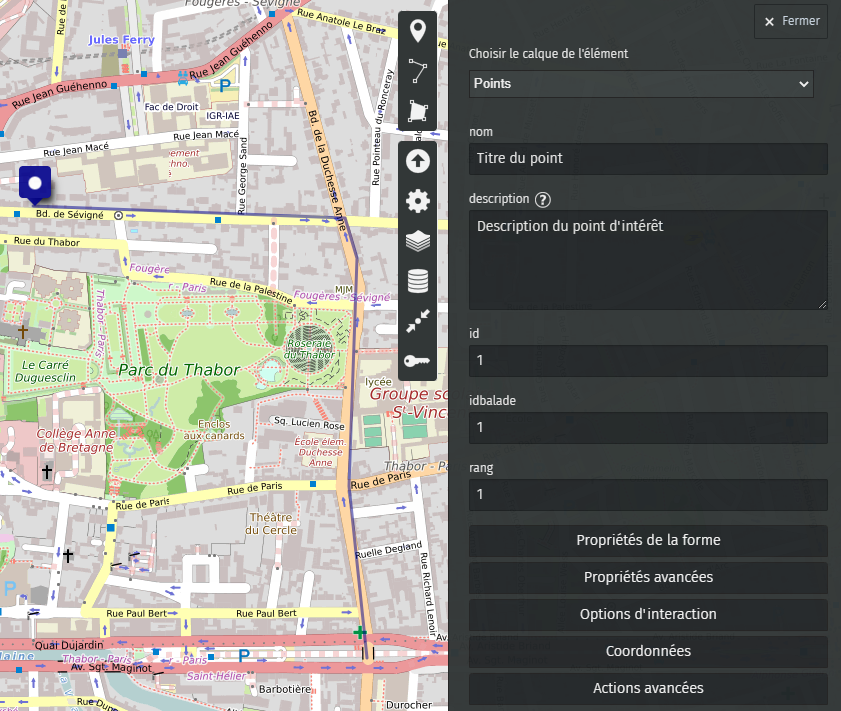
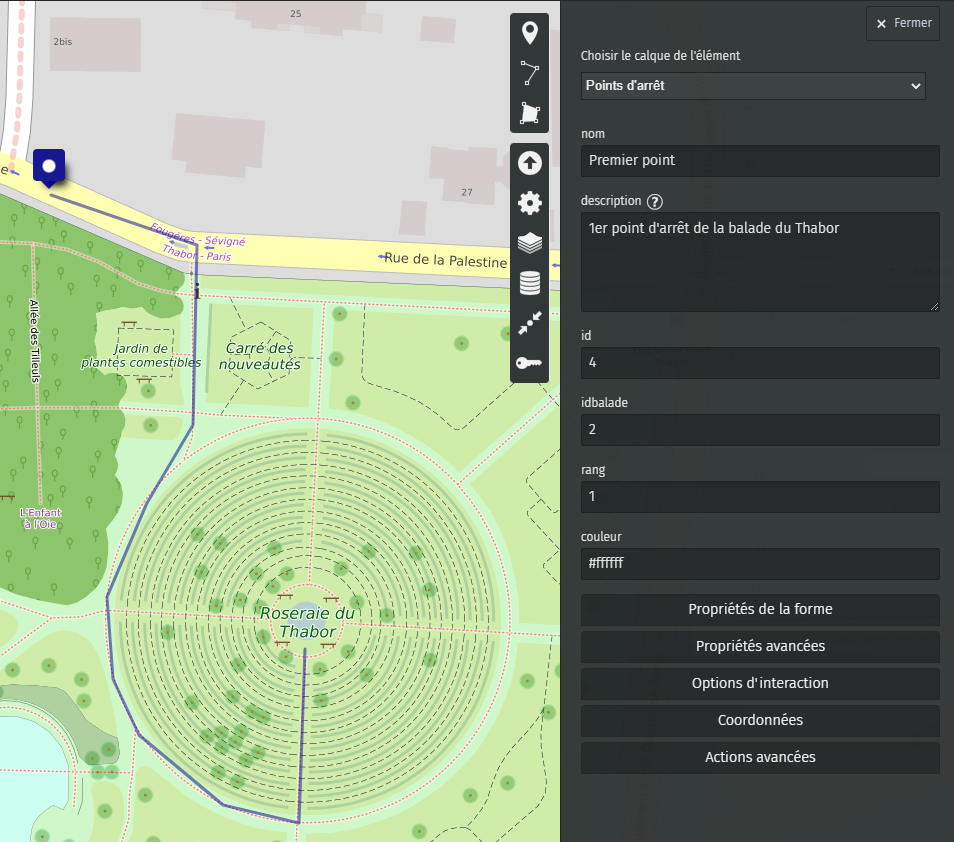
#11861 correctif formulaire

diff --git a/balades/formulaire/manuel_utilisateur.html b/balades/formulaire/manuel_utilisateur.html
@@ -18,7 +18,7 @@
                         <div class="flex-shrink-0"><img class="h-12 w-12" src="librairies/RennesLogo.png" alt="Workflow"></div>
                         <div class="block">
                             <div class="ml-10 flex items-baseline space-x-4">
-                                <a href="index.html" class="text-gray-300 hover:bg-gray-700 hover:text-white px-3 py-2 rounded-md text-sm font-medium" aria-current="page">Création d'une balade</a>
+                                <a href="index.html" class="text-gray-300 hover:bg-gray-700 hover:text-white px-3 py-2 rounded-md text-sm font-medium" aria-current="page">Paramétrage de la carte</a>
                                 <a href="manuel_utilisateur.html" class="bg-gray-900 text-white px-3 py-2 rounded-md text-sm font-medium">Manuel utilisateur</a>
                             </div>
                         </div>
@@ -31,10 +31,11 @@
             <nav class="w-full max-w-max">
                 <div class="container">
                     <ol class="list-inside text-md ml-8">
+                        <li class="mb-2"><a class="text-blue-700 hover:text-blue-800" href="#pre-requis">Pré-requis</a></li>
                         <li class="mb-2"><a class="text-blue-700 hover:text-blue-800" href="#etape-1">Étape 1 : Création des données des balades avec uMap</a></li>
                         <ol class="list-inside text-md ml-12 text-sm">
                             <li class="mb-2"><a class="text-blue-700 hover:text-blue-800" href="#etape-1-1">1.1 : Ouverture du site et import d'un fichier de configuration</a></li>
-                            <li class="mb-2"><a class="text-blue-700 hover:text-blue-800" href="#etape-1-2">1.2 : Création d'une balade (entité linéaire)</a></li>
+                            <li class="mb-2"><a class="text-blue-700 hover:text-blue-800" href="#etape-1-2">1.2 : Création du parcours d'une balade (entité linéaire)</a></li>
                             <li class="mb-2"><a class="text-blue-700 hover:text-blue-800" href="#etape-1-3">1.3 : Création d'un point d'intérêt (entité ponctuelle)</a></li>
                             <li class="mb-2"><a class="text-blue-700 hover:text-blue-800" href="#etape-1-4">1.4 : Exporter les données de uMap</a></li>
                         </ol>
@@ -51,6 +52,10 @@
                     </ol>
                 </div>
             </nav>
+            <h2 class="text-xl font-bold text-gray-800 mb-4 mt-10 ml-6" id="pre-requis" style="scroll-margin-top: 4.2rem;">Pré-requis :</h2>
+            <div class="container mx-auto">
+                <p class="mb-4">Vous avez besoin de télécharger un modèle de carte pour le site uMap : <a class="text-blue-700 hover:text-blue-800" target="_blank" href="carte_balade_exemple.umap" download>cliquer ici pour téléchager le modèle de carte uMap</a></p>
+            </div>
             <h2 class="text-xl font-bold text-gray-800 mb-4 mt-10 ml-6" id="etape-1" style="scroll-margin-top: 4.2rem;">Étape 1 : Création des données des balades avec uMap</h2>
             <div class="container mx-auto">
                 <ol class="list-inside">
@@ -59,19 +64,20 @@
                         <p class="mb-2">Commencez par aller sur le site <b>uMap</b> pour commencer la création des balades : <a class="text-blue-700 hover:text-blue-800" target="_blank" href="https://umap.openstreetmap.fr/fr/map/new/#13/48.1138/-1.6722">https://umap.openstreetmap.fr/</a></p>
                         <p>Ensuite, cliquer sur le <b>bouton</b> pour importer un exemple de données sur uMap comme sur l'image ci-dessous : </p>
                         <img class="w-1/12 mx-auto my-4 border border-black rounded-md" src="librairies/images/boutonImporterDonneesuMap.png">
-                        <p>Un panneau s'ouvre alors pour importer un fichier de configuration comme sur la capture ci-dessous. Sélectionnez le fichier <b>carte_balade_exemple.umap</b> téléchargeable ici : <a class="text-blue-700 hover:text-blue-800" target="_blank" href="carte_balade_exemple.umap">carte_balade_exemple.umap</a></p>
+                        <p>Un panneau s'ouvre alors pour importer un fichier de configuration comme sur la capture ci-dessous. Sélectionnez le fichier <b>carte_balade_exemple.umap</b> que vous avez téléchargé.</p>
                         <img class="w-1/4 mx-auto my-4 border border-black rounded-md" src="librairies/images/menuImporterDesDonnees.png">
-                        <p>Vous pouvez cliquer sur le bouton <b>Importer</b> et le fichier de configuration sera chargé dans uMap (cf. image ci-dessous). Vous pouvez alors commencer à créer vos balades.</p>
+                        <p>Vous pouvez cliquer sur le bouton <b>Importer</b> et le fichier de configuration sera chargé dans uMap (cf. image ci-dessous). Sur la base de ce modèle de données, 
+                            il est possible de créer les données représentant des balades avec des points d'intérêts. De plus, le style des données sur la carte uMap ne correspondra pas à la carte thématique qui sera déployée.</p>
                         <img class="w-1/4 mx-auto my-4 border border-black rounded-md" src="librairies/images/exempleDonnesImportes.png">          
                     </li>
                     <li class="mb-4" id="etape-1-2" style="scroll-margin-top: 4.2rem;">
-                        <h2 class="text-lg font-bold text-gray-800 mb-4">1.2 : Création d'une balade (entité linéaire)</h2>
+                        <h2 class="text-lg font-bold text-gray-800 mb-4">1.2 : Création du parcours d'une balade (entité linéaire)</h2>
                         <p>Pour créer une entité linéaire, vous devez cliquer sur le bouton <b>Dessiner une ligne</b> comme sur la capture ci-dessous :</p>
                         <img class="w-1/12 mx-auto my-4 border border-black rounded-md" src="librairies/images/boutonEntitieLineaire.png">
-                        <p>Ensuite, vous pouvez créer les points de balade sur la carte en <b>cliquant</b> pour chaque point. Pour <b>terminer</b> la création de la balade, 
-                        il faut cliquer sur le dernier point de la balade et un menu s'ouvre pour renseigner les <b>informations de la balade</b> comme sur la capture ci-dessous :</p>
+                        <p>Ensuite, vous pouvez créer les points du segment sur la carte en <b>cliquant</b> pour chaque point. Pour <b>terminer</b> la création de la balade, 
+                        il faut cliquer sur le dernier point de segment de la balade et un menu s'ouvre pour renseigner les <b>informations de la balade</b> comme sur la capture ci-dessous :</p>
                         <img class="w-1/2 mx-auto my-4 border border-black rounded-md" src="librairies/images/creerEntiteLineaire.png">
-                        <p class="mb-2 text-red-600">Si vous n'avez pas le formulaire pour renseigner les informations de la balade, vous pouvez changer le calque de l'élément en <b>Balades</b>.</p>
+                        <p class="mb-2 text-red-600">Si vous n'avez pas le formulaire pour renseigner les informations de la balade, vous pouvez changer le calque de l'élément en <b>Parcours de balade</b>.</p>
                         <p>Les informations à renseigner pour une balade sont les suivantes :</p>
                         <ul class="list-disc ml-12 my-2">
                             <li><b>Nom</b> : le titre de la balade</li>
@@ -88,7 +94,7 @@
                         <p>Ensuite, vous pouvez créer un point d'intérêt en <b>cliquant</b> sur la carte. Après avoir cliqué sur la carte,
                         un menu s'ouvre pour renseigner les <b>informations du point d'intérêt</b> comme sur la capture ci-dessous :</p>
                         <img class="w-1/2 mx-auto my-4 border border-black rounded-md" src="librairies/images/creerEntitePonctuelle.png">
-                        <p class="mb-2 text-red-600">Si vous n'avez pas le formulaire pour renseigner les informations du point d'intérêt, vous pouvez changer le calque de l'élément en <b>Points</b>.</p>
+                        <p class="mb-2 text-red-600">Si vous n'avez pas le formulaire pour renseigner les informations du point d'intérêt, vous pouvez changer le calque de l'élément en <b>Points d'arrêt</b>.</p>
                         <p>Les informations à renseigner pour un point d'intérêt sont les suivantes :</p>
                         <ul class="list-disc ml-12 my-2">
                             <li><b>Nom</b> : le titre du point d'intérêt</li>
@@ -101,6 +107,7 @@
                     </li>
                     <li class="mb-4" id="etape-1-4" style="scroll-margin-top: 4.2rem;">
                         <h2 class="text-lg font-bold text-gray-800 mb-4">1.4 : Exporter les données de uMap</h2>
+                        <p class="mb-2 text-red-600">Avant d'exporter les données, pensez à supprimer les données d'exemple (pour cela, cliquer sur chaque élément et sélectionner le bouton avec le logo poubelle).</p>
                         <p>Pour exporter les données de uMap, vous devez cliquer sur le bouton <b>Exporter et partager la carte</b> comme sur la capture ci-dessous :</p>
                         <img class="w-1/6 mx-auto my-4 border border-black rounded-md" src="librairies/images/boutonExporterDonneesuMap.png">
                         <p>Ensuite, vous devez sélectionner le format <b>GeoJSON</b> et cliquer sur le bouton <b>Télécharger les données</b> comme sur la capture ci-dessous :</p>
@@ -111,7 +118,7 @@
             </div>
             <h2 class="text-xl font-bold text-gray-800 mb-4 mt-4 ml-6" id="etape-2" style="scroll-margin-top: 4.2rem;">Étape 2 : Utilisation du formulaire de création d'une carte de balade</h2>
             <div class="container mx-auto">
-                <p class="mb-4">Le formulaire est disponible depuis le menu en haut en cliquant sur le bouton <b>Création d'une balade</b> ou <a class="text-blue-700 hover:text-blue-800" href="index.html">ici</a>.</p>
+                <p class="mb-4">Le formulaire est disponible depuis le menu en haut en cliquant sur le bouton <b>Paramétrage de la carte</b> ou <a class="text-blue-700 hover:text-blue-800" href="index.html">ici</a>.</p>
                 <ol class="list-inside">
                     <li class="mb-4" id="etape-2-1" style="scroll-margin-top: 4.2rem;">
                         <h2 class="text-lg font-bold text-gray-800 mb-4">2.1 : Importer les données GeoJSON sur le formulaire de création de carte de balade</h2>

diff --git a/balades/formulaire/index.html b/balades/formulaire/index.html
@@ -5,7 +5,7 @@
     <meta charset="UTF-8">
     <meta http-equiv="X-UA-Compatible" content="IE=edge">
     <meta name="viewport" content="width=device-width, initial-scale=1.0">
-    <title>Création d'une balade</title>
+    <title>Paramétrage de la carte</title>
     <link rel="stylesheet" href="tailwind.min.css">
     <script src="https://cdn.jsdelivr.net/npm/ol@v7.1.0/dist/ol.js"></script>
     <link rel="stylesheet" href="https://cdn.jsdelivr.net/npm/ol@v7.1.0/ol.css">
@@ -110,7 +110,7 @@
                         <div class="flex-shrink-0"><img class="h-12 w-12" src="librairies/RennesLogo.png" alt="Workflow"></div>
                         <div class="block">
                             <div class="ml-10 flex items-baseline space-x-4">
-                                <a href="index.html" class="bg-gray-900 text-white px-3 py-2 rounded-md text-sm font-medium" aria-current="page">Création d'une balade</a>
+                                <a href="index.html" class="bg-gray-900 text-white px-3 py-2 rounded-md text-sm font-medium" aria-current="page">Paramétrage de la carte</a>
                                 <a href="manuel_utilisateur.html" class="text-gray-300 hover:bg-gray-700 hover:text-white px-3 py-2 rounded-md text-sm font-medium">Manuel utilisateur</a>
                             </div>
                         </div>
